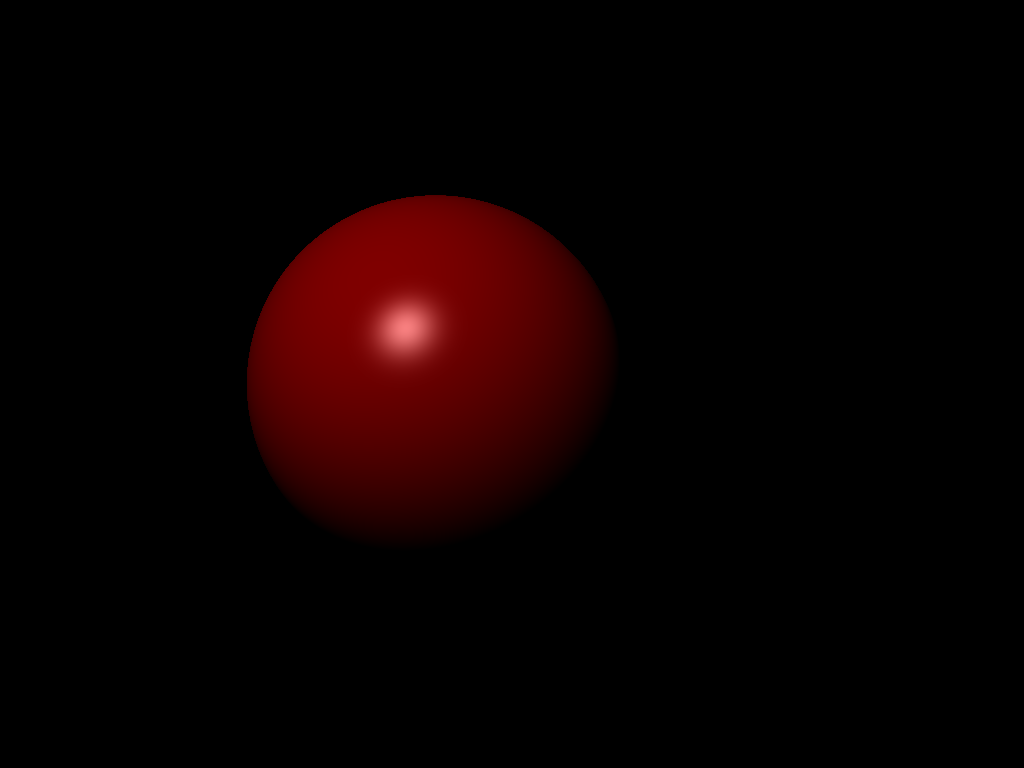
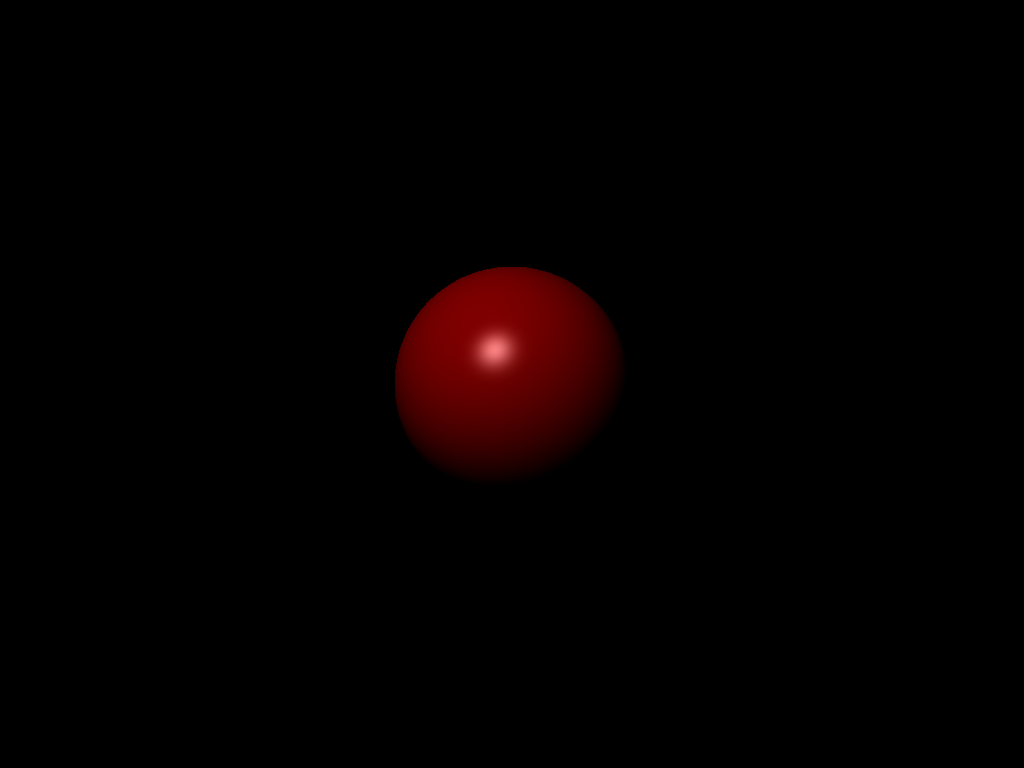
adding animations

Changed region(s): [[0.2188, 0.25, 0.5938, 0.6875]]

diff --git a/src/raytracer/raytracescene.cpp b/src/raytracer/raytracescene.cpp
@@ -3,6 +3,12 @@
 #include "utils/sceneparser.h"
 #include "raytracer.h"
 #include<iostream>
+#include "raytracer.h"
+#include "glm/gtx/string_cast.hpp"
+#include "qimage.h"
+#include "raytracescene.h"
+#include <iostream>
+#include <map>
 
 
 /*!
@@ -103,8 +109,8 @@ RGBA toRGBA(const glm::vec4 &illumination) {
     return RGBA{r, g, b};
 }
 
-glm::mat4 translator(float dx, float dy, float dz){
-    return glm::mat4(1, 0, 0, 0, 0, 1, 0, 0, 0, 0, 1, 0, dx, dy, dz, 1);
+glm::mat4 translator(glm::vec3 translate){
+    return glm::mat4(1, 0, 0, 0, 0, 1, 0, 0, 0, 0, 1, 0, translate[0], translate[1], translate[2], 1);
 }
 
 
@@ -129,16 +135,19 @@ glm::mat4 translator(float dx, float dy, float dz){
 */
 //NOTE ON "CLOSEST OBJECT": it refers to the object that is closest to the camera, and is hence visible
 
-glm::vec4 RayTraceScene::traceRay(RayTracer::Ray  worldRay, bool doPrint,RayTraceScene &scene,int count, std::map<std::string, RayTracer::textureInfo>& textureMap) const {
+glm::vec4 RayTraceScene::traceRay(RayTracer::Ray  worldRay, bool doPrint,RayTraceScene &scene,int count, std::map<std::string, RayTracer::textureInfo>& textureMap, glm::vec3 translate) const {
     std::vector<RayTracer::surfaceStruct> t_vals;
     int c = count + 1;
+
+
+
 
 
     //MAIN SHAPE LOOP
     for(int i = 0; i < MetaData.shapes.size(); i++){
         RenderShapeData r = MetaData.shapes[i];
-        glm::mat4 o = translator(0.f,0.f,0.2f) * r.ctm;
-        glm::mat4 p = glm::inverse(o);// Coord transformation
+        r.ctm = translator(translate) * r.ctm;
+        glm::mat4 p = glm::inverse(r.ctm);// Coord transformation
 
         //glm::mat4 p = glm::inverse(MetaData.shapes[i].ctm);// Coord transformation
         RayTracer::Ray objectRay = convertRaySpace(worldRay, p);
@@ -178,7 +187,7 @@ glm::vec4 RayTraceScene::traceRay(RayTracer::Ray  worldRay, bool doPrint,RayTrac
             glm::vec4 dirReflected = dirIncident - normalFactor;
             RayTracer::Ray reflectedRay{posReflected + 0.001f * dirReflected, dirReflected};
 
-            indirectIllum = traceRay(reflectedRay, false, scene, c, textureMap);
+            indirectIllum = traceRay(reflectedRay, false, scene, c, textureMap,translate);
             indirectIllum[0] *= getGlobalData().ks * closestObject.shape.primitive.material.cReflective[0];
             indirectIllum[1] *=  getGlobalData().ks *closestObject.shape.primitive.material.cReflective[1];
             indirectIllum[2] *= getGlobalData().ks * closestObject.shape.primitive.material.cReflective[2];
@@ -204,8 +213,8 @@ glm::vec4 RayTraceScene::traceRay(RayTracer::Ray  worldRay, bool doPrint,RayTrac
 ///
 /// Converts results from traceRay into an RGBA struct and returns it to the raytracer
 ///
-RGBA RayTraceScene::getUpdatedPixel(RayTracer::Ray  worldRay, bool doPrint,RayTraceScene &scene,int count, std::map<std::string, RayTracer::textureInfo>& textureMap) const{
-    return toRGBA(traceRay(worldRay, doPrint, scene, count, textureMap));
+RGBA RayTraceScene::getUpdatedPixel(RayTracer::Ray  worldRay, bool doPrint,RayTraceScene &scene,int count, std::map<std::string, RayTracer::textureInfo>& textureMap, glm::vec3 translate) const{
+    return toRGBA(traceRay(worldRay, doPrint, scene, count, textureMap, translate));
 
 
 

diff --git a/src/main.cpp b/src/main.cpp
@@ -50,6 +50,40 @@ int main(int argc, char *argv[])
         return 1;
     }
 
+    float total = 240;
+
+    bool increment = false;
+    //int x = -3;
+
+    //    for(int i = 0; i < 240; i++){
+    ////        if(x == -3){
+    ////            increment = false;;
+    ////        }
+
+    ////        if(x == -5){
+    ////            increment = true;
+    ////        }
+
+    ////        if(increment){
+    ////            x++;
+    ////        }
+
+    ////        else{
+    ////            x--;
+    ////        }
+
+    ////        float a = pow(x + 4, 2);
+    ////        float z = sqrt(1 - a);
+
+    //        float angle = (i/total) * M_PI;
+    //        float x = sin(angle);
+    //       // float y = s
+
+    //        std::cout << x << std::endl;
+
+    //    }
+
+
     QSettings settings( positionalArgs[0], QSettings::IniFormat );
     QString iScenePath = settings.value("IO/scene").toString();
     QString oImagePath = settings.value("IO/output").toString();
@@ -88,11 +122,35 @@ int main(int argc, char *argv[])
     rtConfig.onlyRenderNormals   = settings.value("Settings/only-render-normals").toBool();
 
 
+    float angle0 = (3 *M_PI/2) + (0/total) * M_PI;
+    float z0 = cos(angle0);
+    float x0 = sin(angle0);
+
+    std::cout << "x 0: " << x0 << " z 0: " << z0 << std::endl;
+
+    float angle14 = (3 *M_PI/2) + (60/total) * M_PI;
+    float z14 = cos(angle14);
+    float x14 = sin(angle14);
+
+    std::cout << "x 1/4: " << x14 << " z 1/4: " << z14 << std::endl;
+
+    float angle12 = (3 *M_PI/2) + (120/total) * 2 * M_PI;
+    float z12 = cos(angle12);
+    float x12 = sin(angle12);
+
+    std::cout << "x 1/2: " << x12 << " z 1/2: " << z12 << std::endl;
+
+    float angle18 = (3 *M_PI/2) + (180/total) * M_PI;
+    float z18 = cos(angle18);
+    float x18 = sin(angle18);
+
+    std::cout << "x 3/4: " << x18 << " z 3/4: " << z18 << std::endl;
+
     //Animation params
-    bool isVideo = false;
-    bool focalVariation = true;
+    bool isVideo = true;
+    bool focalVariation = false;
     bool appertureVar = false;
-    bool planeZVar = false;
+    bool move = true;
 
     //TODO: Refactor code below into helper
 
@@ -108,17 +166,27 @@ int main(int argc, char *argv[])
                 type = "focalChange";
             }
 
-            else if(planeZVar){
-                rtConfig.planeZ =    rtConfig.planeZ + 0.1f;
-                type = "zChange";
+            else if(move){
+                //rtConfig.planeZ =    rtConfig.planeZ + 0.1f;
+                type = "movement";
+                float angle = (3 *M_PI/2) + (i/total) * M_PI;
+                float z = cos(angle);
+                float x = sin(angle);
+                rtConfig.xTranslate = x;
+                rtConfig.zTranslate = z;
             }
 
             else if(appertureVar){
                 rtConfig.apperture =    rtConfig.apperture + 0.007f;
+
                 type = "apertureChange";
             }
 
-            RayTracer raytracer{ rtConfig };
+
+
+
+
+                RayTracer raytracer{ rtConfig };
 
             RayTraceScene rtScene{ width, height, metaData };
 

diff --git a/src/raytracer/raytracer.cpp b/src/raytracer/raytracer.cpp
@@ -38,6 +38,9 @@ float getminPos(std::vector<float> t_array){
     return t_min_pos;
 }
 
+
+
+
 //TESTS getMinPos
 void testMinPos(){
     auto y = std::vector{ -1.0f, 2.5f, -3.0f, 6.0f, 1.0f, -8.0f};
@@ -80,6 +83,7 @@ RayTracer::textureInfo loadTextureFromFile(const QString &file) {
 
 
 
+
 /*!
     @param:
     RGBA imageData: Pointer to the first pixel of the viewing plane through which the ray is traced
@@ -96,7 +100,10 @@ RayTracer::textureInfo loadTextureFromFile(const QString &file) {
 */
 void RayTracer::render(RGBA *imageData, const RayTraceScene &scene) {
 
+
+
     if(!dofEnable){
+
 
 
         map<string, RayTracer::textureInfo> textureMap;
@@ -143,7 +150,7 @@ void RayTracer::render(RGBA *imageData, const RayTraceScene &scene) {
                     doPrint = true;
                 }
                 RayTraceScene scene1 = scene;
-                imageData[j * scene.width() + i] = scene.getUpdatedPixel(worldRay, doPrint, scene1, 0, textureMap);
+                imageData[j * scene.width() + i] = scene.getUpdatedPixel(worldRay, doPrint, scene1, 0, textureMap, glm::vec3(m_config.xTranslate, 0.f, m_config.zTranslate));
                 doPrint = false;
 
 
@@ -221,8 +228,8 @@ RGBA RayTracer::lensMaker(RayTracer::Ray  primaryRay, bool doPrint,RayTraceScene
         Ray newRay{newPos, newDir};
 
 
-        RGBA update = scene.getUpdatedPixel(newRay, doPrint, scene, count, textureMap);
-       // std::cout<< weight << std::endl;
+        RGBA update = scene.getUpdatedPixel(newRay, doPrint, scene, count, textureMap, glm::vec3(m_config.xTranslate, m_config.yTranslate, m_config.zTranslate));
+        // std::cout<< weight << std::endl;
         redAcc =   (weight * update.r)+ redAcc;
         greenAcc = (weight * update.g)+ greenAcc ;
         blueAcc =  (weight *  update.b) + blueAcc;

diff --git a/src/raytracer/raytracescene.h b/src/raytracer/raytracescene.h
@@ -22,9 +22,9 @@ public:
     SceneCameraData camData;
     Camera cam;
     
-    glm::vec4 traceRay(RayTracer::Ray  worldRay, bool doPrint, RayTraceScene &scene,int count, std::map<std::string, RayTracer::textureInfo>& textureMap) const;
+    glm::vec4 traceRay(RayTracer::Ray  worldRay, bool doPrint, RayTraceScene &scene,int count, std::map<std::string, RayTracer::textureInfo>& textureMap, glm::vec3 translate) const;
     RayTracer::Ray convertRaySpace(RayTracer::Ray  worldRay, glm::mat4 p) const;
-    RGBA getUpdatedPixel(RayTracer::Ray  worldRay, bool doPrint,RayTraceScene &scene,int count, std::map<std::string, RayTracer::textureInfo>& textureMap) const;
+    RGBA getUpdatedPixel(RayTracer::Ray  worldRay, bool doPrint,RayTraceScene &scene,int count, std::map<std::string, RayTracer::textureInfo>& textureMap, glm::vec3 translate) const;
     static RayTracer::intersectInfo getIntersection(RenderShapeData shape, RayTracer::Ray ray);
     static RayTracer::surfaceStruct getminPos(std::vector<RayTracer::surfaceStruct> &t_StrucArray);
     bool blocked(SceneLightData light, glm::vec3 intersectPos, bool doPrint);

diff --git a/src/raytracer/raytracer.h b/src/raytracer/raytracer.h
@@ -33,6 +33,9 @@ public:
         float focalLength = 13.f; //13.f for larger scene
         float planeZ = 1.f;
         bool onlyRenderNormals   = false;
+        float zTranslate = 0.f;
+        float xTranslate = 0.f;
+        float yTranslate = 0.f;
     };
 
     ///
